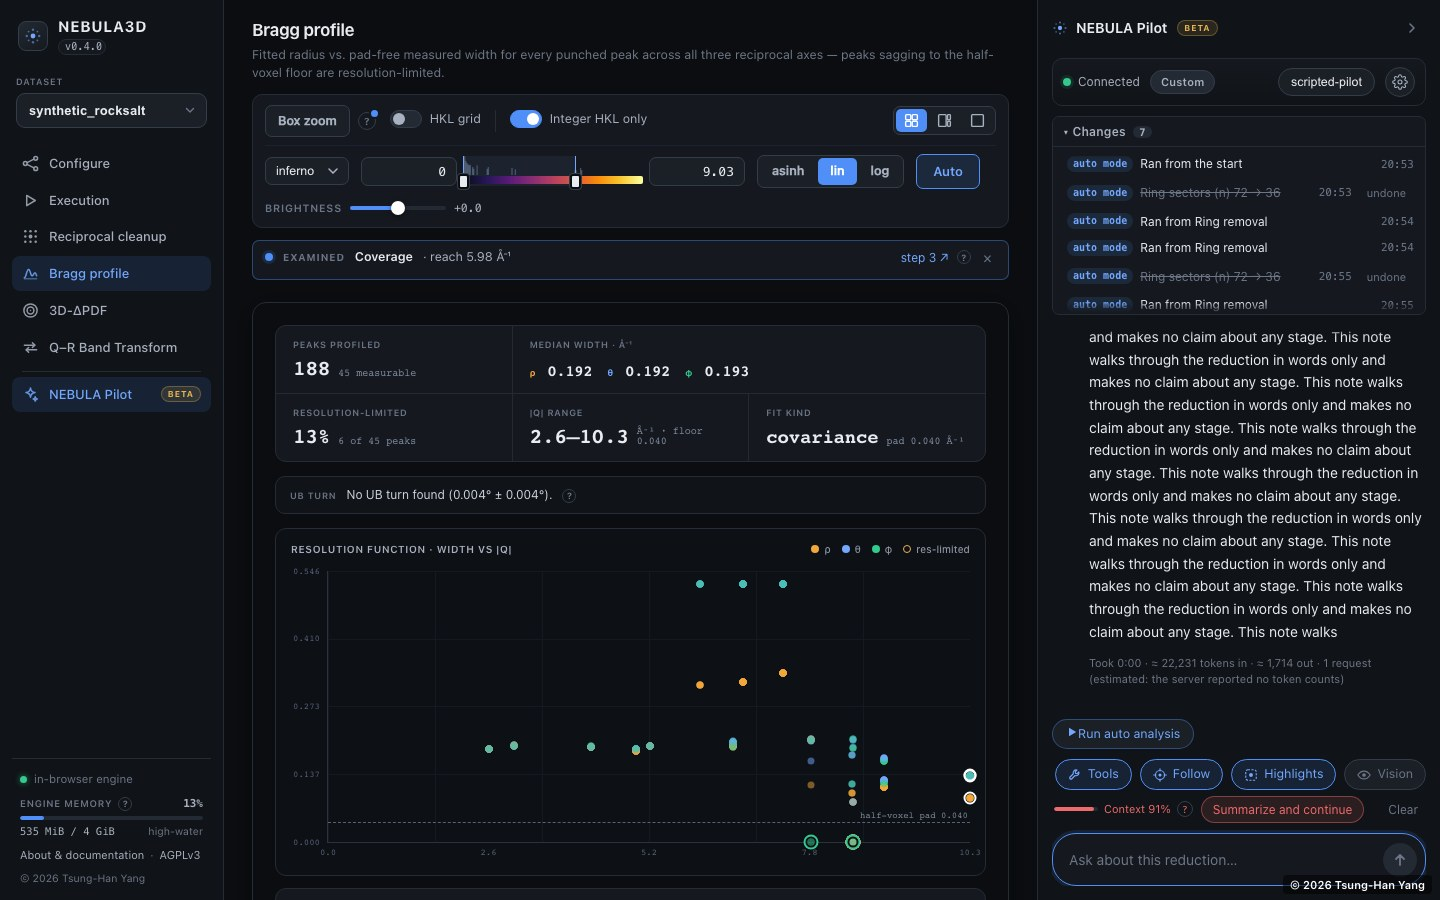
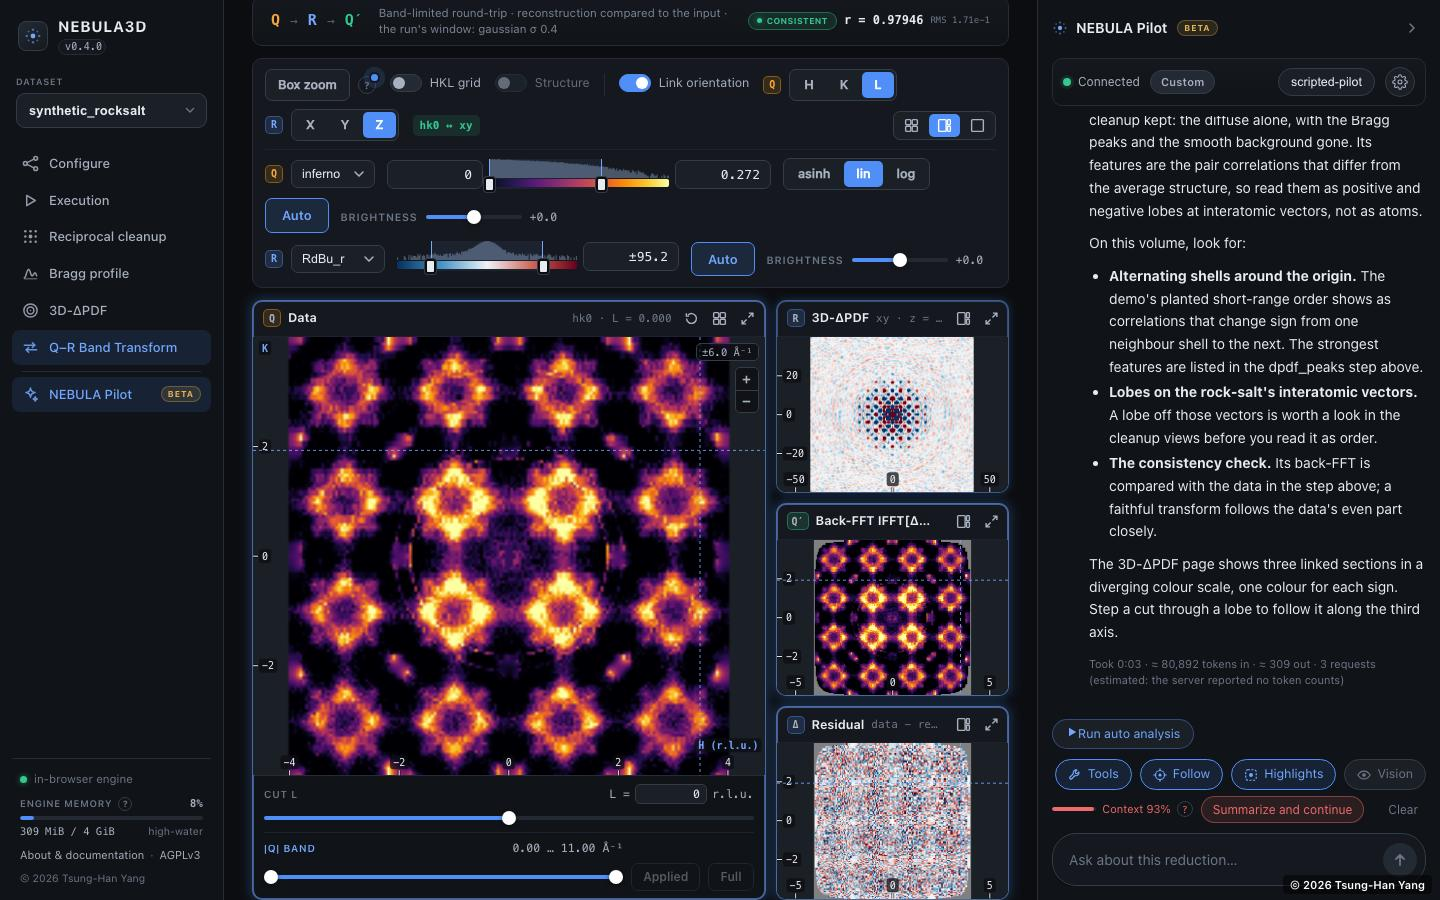
Context-meter shot: real turns fill the window, not filler
The scripted model gains a context-meter story: "Assess the run.", then the
ring-removal and 3D-ΔPDF notes from docs/algorithms pasted with a question,
each answered after its checks (assess_stage, dpdf_peaks,
consistency_details) in generic words true for the synthetic demo, with no
number written. Every answer passes the answer checks. pilot-context-meter.jpg
is retaken with them: red at 93 % with Summarize and continue, the last
answer about the 3D-ΔPDF, nothing over the panel.

diff --git a/README.md b/README.md
@@ -125,8 +125,8 @@ chat box shows how full the model's window is, and from 70 % offers
 | --- | --- |
 | ![The Auto panel after a run: the plan with each stage's state and the activity log](docs/media/pilot-auto-done.jpg) | ![On a phone: the Auto panel paused, with its Now line and the last steps of the log](docs/media/pilot-auto-phone.jpg) |
 | **Auto mode, finished:** the plan, each stage's state and the activity log. | **On a phone:** the Now line and the last steps, with Resume and Stop. |
-| ![The context meter at 91 percent in red, offering Summarize and continue](docs/media/pilot-context-meter.jpg) | ![The auto run's report: quality checks per stage and the problems the checks found](docs/media/pilot-auto-report.jpg) |
-| **Context meter** at 91 %, offering *Summarize and continue*. | **The report:** each stage's check, and the problems the checks found, written by the app, not the model. |
+| ![The context meter at 93 percent in red, offering Summarize and continue](docs/media/pilot-context-meter.jpg) | ![The auto run's report: quality checks per stage and the problems the checks found](docs/media/pilot-auto-report.jpg) |
+| **Context meter** at 93 %, offering *Summarize and continue*. | **The report:** each stage's check, and the problems the checks found, written by the app, not the model. |
 
 All screenshots: the synthetic demo volume with a scripted model (a test
 server with no model behind it), from the demo QA of 2026-11-07
